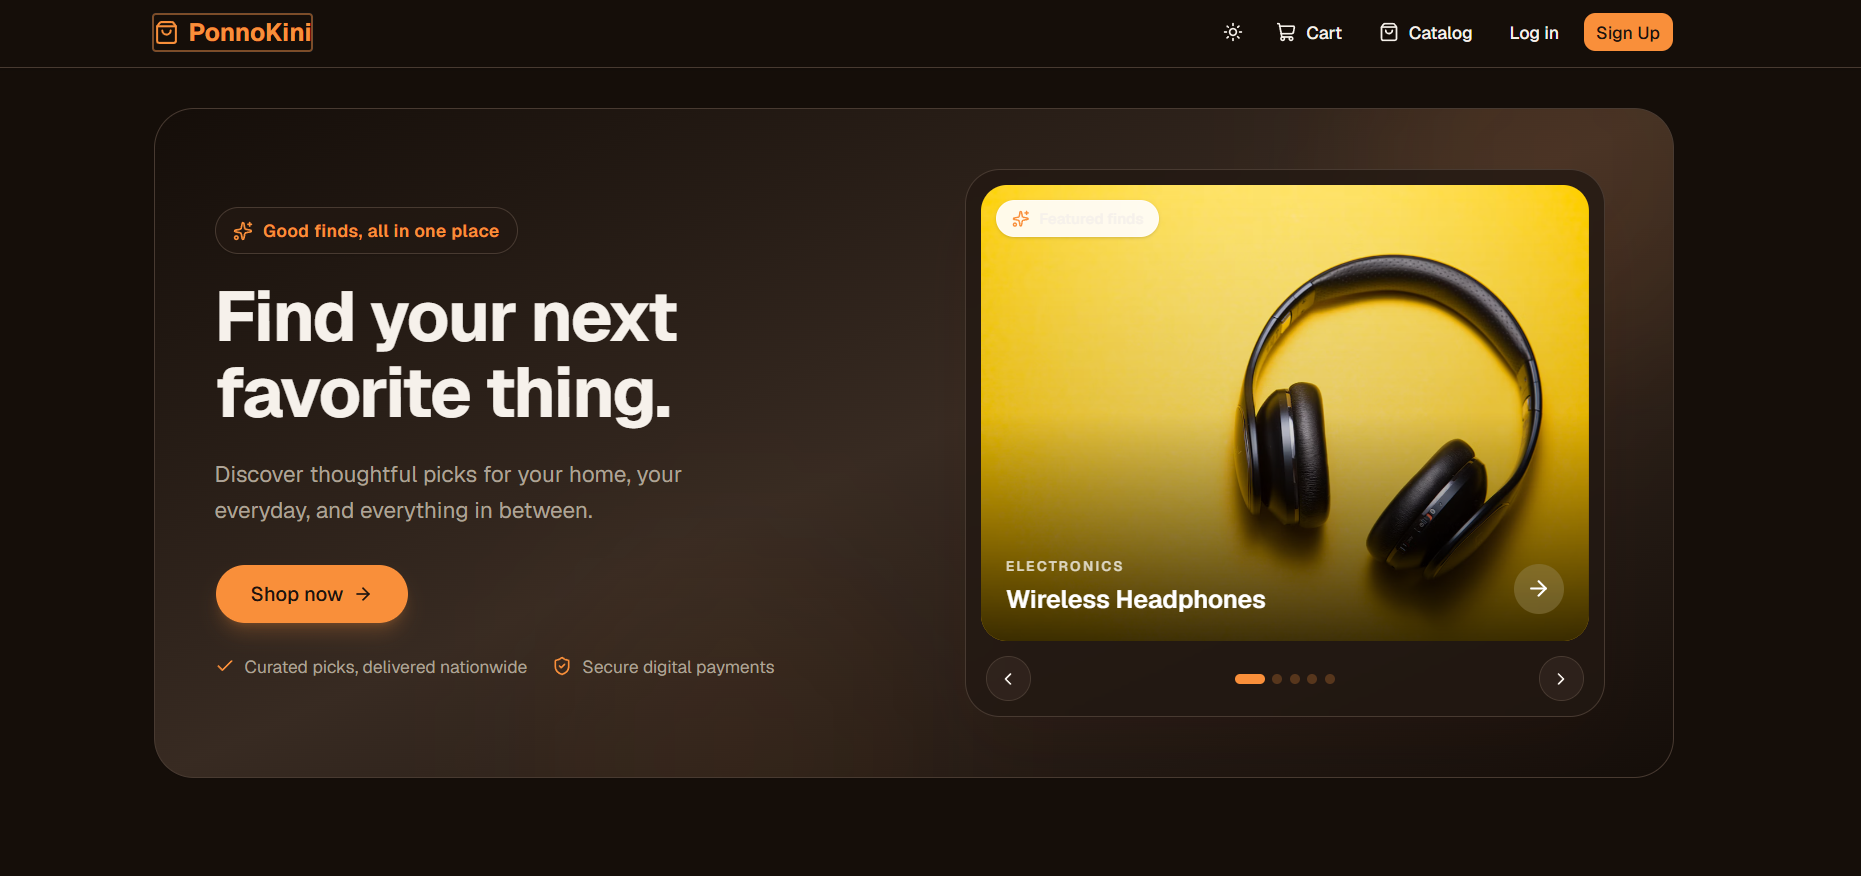
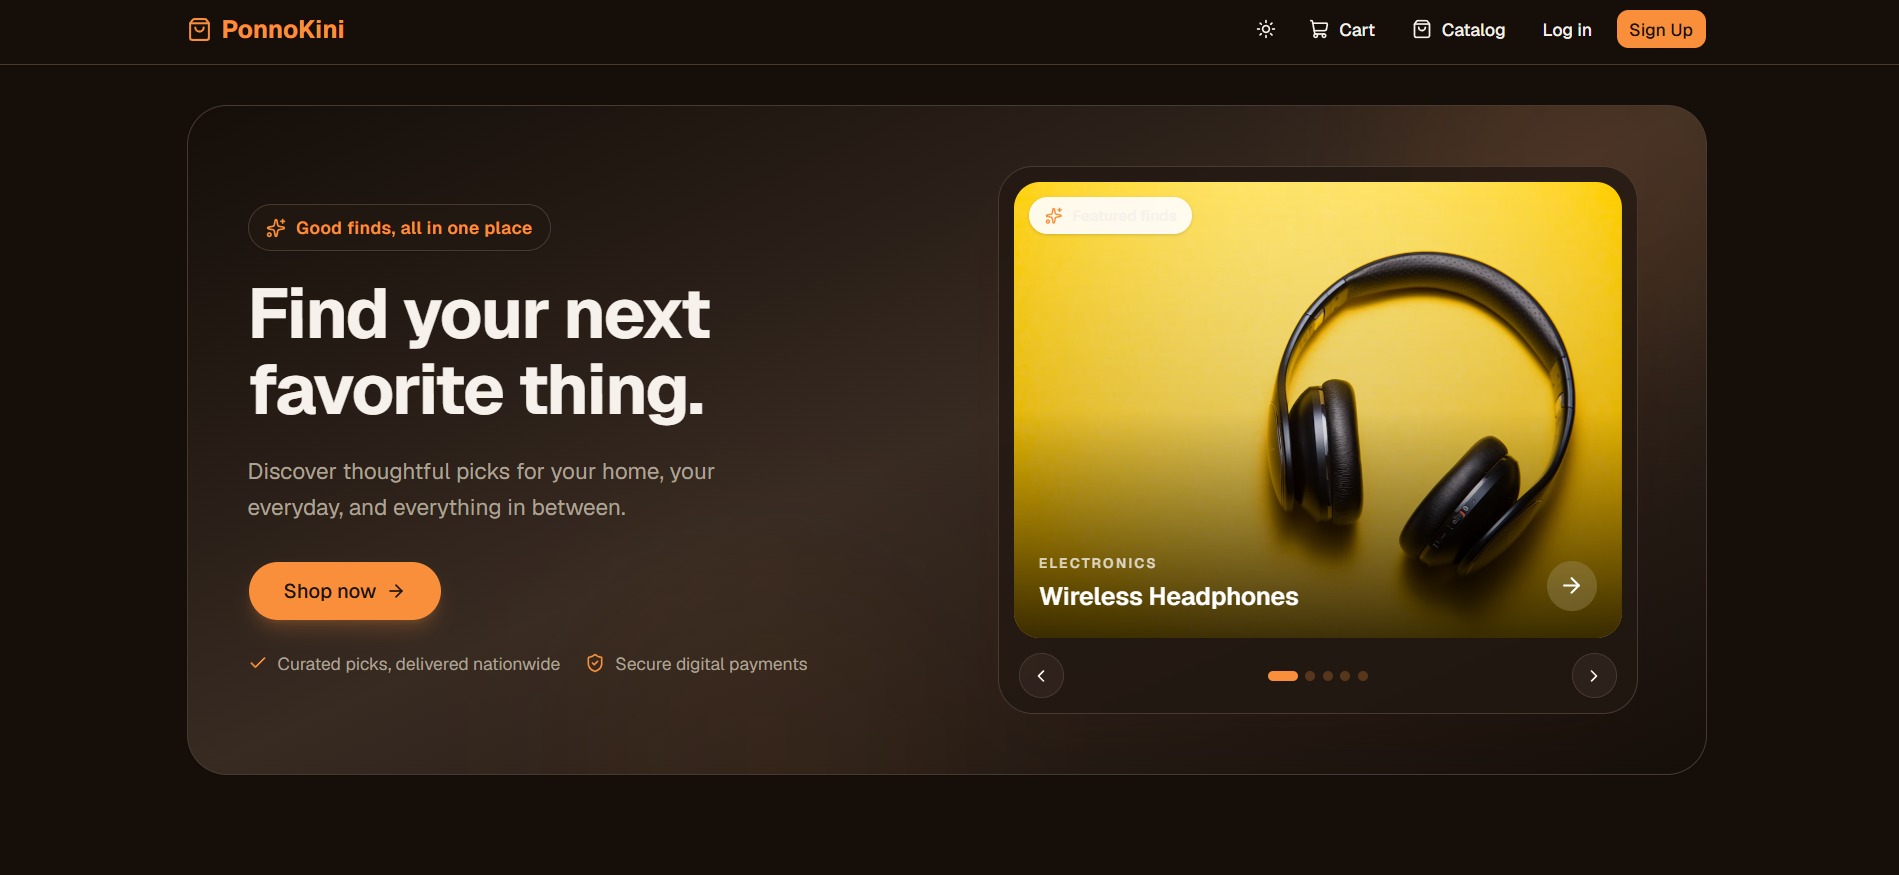
Change PonnoKini Project's image

diff --git a/src/components/ProjectImage.jsx b/src/components/ProjectImage.jsx
@@ -2,13 +2,11 @@ import React from "react";
 
 export function ProjectImage({ project }) {
   return (
-    <div className="aspect-[2.1/1] w-full overflow-hidden bg-background">
-      <img
-        src={project.image}
-        alt={project.imageAlt}
-        loading="lazy"
-        className="h-full w-full object-contain"
-      />
-    </div>
+    <img
+      src={project.image}
+      alt={project.imageAlt}
+      loading="lazy"
+      className="block h-auto w-full"
+    />
   );
 }
